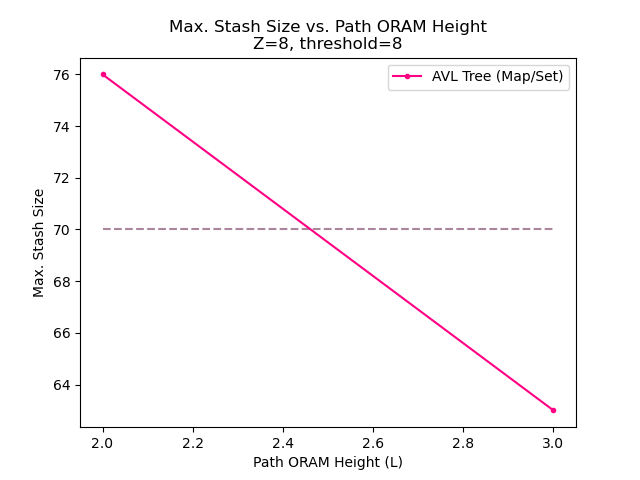
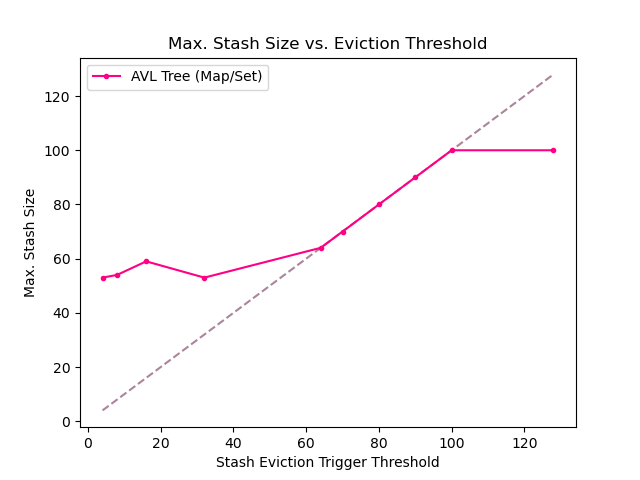
cooking up data

diff --git a/oram/benchmarks.cpp b/oram/benchmarks.cpp
@@ -1,102 +1,112 @@
 
 #include <set>
 
-#include "benchmarks.h"
-
 #include "stack.h"
 #include "queue.h"
 #include "set.h"
 #include "map.h"
 
-void stack_benchmark() {
+#define N 100
+
+void stack_benchmark(unsigned int levels, unsigned int bucket_size, unsigned int threshold) {
+  std::cout << "Testing L = " << levels << ", Z = " << bucket_size << ", THRES = " << threshold << "\n";
+  int max_stash_size = 0;
   char data[BLOCK_SIZE];
   memset(data, 0, BLOCK_SIZE);
 
-  StackClient client = StackClient("127.0.0.1", 8080);
+  StackClient client = StackClient("127.0.0.1", 8080, levels, bucket_size, threshold);
 
   for(int i = 1; i <= N; ++i) {
     memcpy(data, (char*)&i, sizeof(int));
     client.push(data);
+    max_stash_size = std::max(max_stash_size, client.stash_size());
   }
 
   for(int i = 1; i <= N; ++i) {
     client.pop(data);
+    max_stash_size = std::max(max_stash_size, client.stash_size());
   }
+
+  std::cout << "max_stash_size = " << max_stash_size << "\n";
+  std::cout << "bw_usage = " << client.get_bw_usage() << "\n";
 
   client.exit();
 }
 
-void queue_benchmark() {
+void queue_benchmark(unsigned int levels, unsigned int bucket_size, unsigned int threshold) {
+  std::cout << "Testing L = " << levels << ", Z = " << bucket_size << ", THRES = " << threshold << "\n";
+  int max_stash_size = 0;
   char data[BLOCK_SIZE];
   memset(data, 0, BLOCK_SIZE);
 
-  QueueClient client = QueueClient("127.0.0.1", 8080);
+  QueueClient client = QueueClient("127.0.0.1", 8080, levels, bucket_size, threshold);
 
   for(int i = 1; i <= N; ++i) {
     memcpy(data, (char*)&i, sizeof(int));
     client.push(data);
+    max_stash_size = std::max(max_stash_size, client.stash_size());
   }
   std::cout << "\n\n";
 
   for(int i = 1; i <= N; ++i) {
     client.pop(data);
+    max_stash_size = std::max(max_stash_size, client.stash_size());
   }
+
+  std::cout << "max_stash_size = " << max_stash_size << "\n";
+  std::cout << "bw_usage = " << client.get_bw_usage() << "\n";
 
   client.exit();
 }
 
-void avl_benchmark() {
-  for(auto level_it = levels.begin(); level_it != levels.end(); ++level_it) {
-    for(auto bucket_size_it = bucket_sizes.begin(); bucket_size_it != bucket_sizes.end(); ++bucket_size_it) {
-      for(auto thresh_it = stash_thresholds.begin(); thresh_it != stash_thresholds.end(); ++thresh_it) {
-	std::cout << "Testing L = " << *level_it << ", Z = " << *bucket_size_it << ", THRES = " << *thresh_it
-	<< " " << std::string(15, '-') << "\n";
-	int max_stash_size = 0;
-	MapClient<int, int> client = MapClient<int, int>("127.0.0.1", 8080,
-							 *level_it, *bucket_size_it, *thresh_it);
-
-	for(int i = 1; i <= N; ++i) {
-	  client.insert(i, 5*i);
-	  max_stash_size = std::max(max_stash_size, client.stash_size());
-	}
-
-	client.contains(2);
-	max_stash_size = std::max(max_stash_size, client.stash_size());
-	client.remove(2);
-	max_stash_size = std::max(max_stash_size, client.stash_size());
-	client.contains(2);
-	max_stash_size = std::max(max_stash_size, client.stash_size());
-	
-	for(int i = 1; i <= N; ++i) {
-	  if(i != 2) client.at(i);
-	  max_stash_size = std::max(max_stash_size, client.stash_size());
-	}
-
-	for(int i = 1; i <= N; ++i) {
-	  if(i != 2) client.remove(i);
-	  max_stash_size = std::max(max_stash_size, client.stash_size());
-	}
-	
-	std::cout << "max_stash_size = " << max_stash_size << "\n";
-	std::cout << "bw_usage = " << client.get_bw_usage() << "\n";
-	
-	client.exit();
-      }
-    }
+void avl_benchmark(unsigned int levels, unsigned int bucket_size, unsigned int threshold) {
+  std::cout << "Testing L = " << levels << ", Z = " << bucket_size << ", THRES = " << threshold << "\n";
+  int max_stash_size = 0;
+  MapClient<int, int> client = MapClient<int, int>("127.0.0.1", 8080, levels, bucket_size, threshold);
+  
+  for(int i = 1; i <= N; ++i) {
+    client.insert(i, 5*i);
+    max_stash_size = std::max(max_stash_size, client.stash_size());
   }
+  
+  client.contains(2);
+  max_stash_size = std::max(max_stash_size, client.stash_size());
+  client.remove(2);
+  max_stash_size = std::max(max_stash_size, client.stash_size());
+  client.contains(2);
+  max_stash_size = std::max(max_stash_size, client.stash_size());
+  
+  for(int i = 1; i <= N; ++i) {
+    if(i != 2) client.at(i);
+    max_stash_size = std::max(max_stash_size, client.stash_size());
+  }
+  
+  for(int i = 1; i <= N; ++i) {
+    if(i != 2) client.remove(i);
+    max_stash_size = std::max(max_stash_size, client.stash_size());
+  }
+  
+  std::cout << "max_stash_size = " << max_stash_size << "\n";
+  std::cout << "bw_usage = " << client.get_bw_usage() << "\n";
+
+  client.exit();
 }
 
 int main(int argc, char* argv[]) {
-  if(argc < 2) {
-    std::cout << "Usage: ./client [data structure (stack, queue, map, set)]\n";
+  if(argc < 5) {
+    std::cout << "Usage: ./client [data structure] [levels] [bucket_size] [threshold]\n";
     return -1;
   }
 
   char* ds = argv[1];
 
-  if(strcmp(ds, "stack") == 0) stack_benchmark();
-  else if(strcmp(ds, "queue") == 0) queue_benchmark();
-  else if(strcmp(ds, "avl") == 0) avl_benchmark();
+  unsigned int levels = std::stoi(argv[2]);
+  unsigned int bucket_size = std::stoi(argv[3]);
+  unsigned int threshold = std::stoi(argv[4]);
+
+  if(strcmp(ds, "stack") == 0) stack_benchmark(levels, bucket_size, threshold);
+  else if(strcmp(ds, "queue") == 0) queue_benchmark(levels, bucket_size, threshold);
+  else if(strcmp(ds, "avl") == 0) avl_benchmark(levels, bucket_size, threshold);
   else {
     std::cout << "Bad data structure. Choose one of: stack, queue, map, set.\n";
     return -1;

diff --git a/eval/run_benchmarks.py b/eval/run_benchmarks.py
@@ -1,0 +1,39 @@
+
+import os
+import subprocess
+import time
+
+from fig_common import *
+
+RUN_ALL=False
+
+if __name__=="__main__":
+
+    for label in labels.keys(): 
+        output_file = f"./data/{label}.log"
+        if RUN_ALL and os.path.exists(output_file):
+            os.remove(output_file)
+
+        for level in levels:
+            for bucket_size in bucket_sizes:
+                for threshold in thresholds:
+                    client_cmd = ["../oram/benchmarks",
+                                  str(label), str(level), str(bucket_size), str(threshold)]
+                    server_cmd = ["../oram/server", str(level), str(bucket_size)]
+
+                    if os.path.exists(output_file):
+                        with open(output_file, 'r') as logfile:
+                            contents = logfile.readlines()
+
+                            if f"Testing L = {level}, Z = {bucket_size}, THRES = {threshold}\n" in contents:
+                                continue
+
+                    with open(output_file, 'a') as logfile:
+                        client = subprocess.Popen(client_cmd, stdout=logfile)
+                        time.sleep(1)
+                        server = subprocess.Popen(server_cmd, stdout=subprocess.PIPE)
+
+                        for line in server.stdout:
+                            print(line)
+                        
+                    client.wait()

diff --git a/eval/stash_size.py b/eval/stash_size.py
@@ -8,21 +8,22 @@ def avg_stash_size():
 def max_stash_size(data): # maybe max stash size vs. threshold? 
     fig, ax = plt.subplots()
 
-    threshold = 8
-    Z = 8
+    # threshold = 32
+    Z = 8 
+    L = 4
 
-    x_var = data[0].keys()
+    x_var = data[0][L][Z].keys()
 
     # threshold value
-    ax.plot([min(x_var), max(x_var)], [70, 70], '--', color=ref_line_color)
+    ax.plot([min(x_var), max(x_var)], [min(x_var), max(x_var)], '--', color=ref_line_color)
 
     for i, d in enumerate(data):
-        y_var = [d[x][Z][threshold].max_stash_size for x in x_var]    
+        y_var = [d[L][Z][x].max_stash_size for x in x_var]    
         ax.plot(x_var, y_var, '.-', color=colors[i], label=list(labels.values())[i])
 
-    ax.set_xlabel("Path ORAM Height (L)")
+    ax.set_xlabel("Stash Eviction Trigger Threshold")
     ax.set_ylabel("Max. Stash Size")
-    ax.set_title(f"Max. Stash Size vs. Path ORAM Height\nZ={Z}, threshold={threshold}")
+    ax.set_title(f"Max. Stash Size vs. Eviction Threshold") # \nZ={Z}, threshold={threshold}")
     ax.legend()
 
     fig.savefig("max_stash_size.png")

diff --git a/oram/server.cpp b/oram/server.cpp
@@ -3,19 +3,20 @@
 #include <chrono>
 #include <thread>
 
-#include "benchmarks.h"
 #include "new_oram.h"
 
-int main() {
-  for(auto level_it = levels.begin(); level_it != levels.end(); ++level_it) {
-    for(auto bucket_size_it = bucket_sizes.begin(); bucket_size_it != bucket_sizes.end(); ++bucket_size_it) {
-      for(auto thresh_it = stash_thresholds.begin(); thresh_it != stash_thresholds.end(); ++thresh_it) {
-	// stash_threshold doesn't matter to server, it's just a repetition
-	ORAMServer server = ORAMServer(8080, *level_it, *bucket_size_it); 
-	server.run();
-	std::this_thread::sleep_for(std::chrono::seconds(1)); // client likes to connect first idk why
-      }
-    }
+int main(int argc, char* argv[]) {
+  if(argc < 3) {
+    std::cout << "Usage: ./server [levels] [bucket_size]\n";
+    return -1;
   }
+
+  unsigned int levels = std::stoi(argv[1]);
+  unsigned int bucket_size = std::stoi(argv[2]);
+
+  // stash_threshold doesn't matter to server, it's just a repetition
+  ORAMServer server = ORAMServer(8080, levels, bucket_size); 
+  server.run();
+
   return 0;
 }

diff --git a/eval/fig_common.py b/eval/fig_common.py
@@ -33,6 +33,12 @@ def parse_logfile(filename: str) -> dict[dict[dict[DataPoint]]]:
 
             init_dict_idx(config['L'], config['Z'], config['thresh'])
             data[config['L']][config['Z']][config['thresh']] = DataPoint(max_stash_size, 0, bw_usage)
+
+        data = dict(sorted(data.items()))
+        for L in data:
+            data[L] = dict(sorted(data[L].items()))
+            for Z in data:
+                data[L][Z] = dict(sorted(data[L][Z].items()))
     return data
 
 colors = [
@@ -45,7 +51,14 @@ colors = [
 ref_line_color = '#ab859b'
 
 labels = {
+    "stack": "Stack",
+    "queue": "Queue",
     "avl": "AVL Tree (Map/Set)",
 }
+
+levels = [4]
+# bucket_sizes = [2, 4, 8]
+bucket_sizes = [8]
+thresholds = [4, 8, 16, 32, 64, 70, 80, 90, 100, 128]
 
 linestyles = ['.-', '.--', '.-.', '.:']

diff --git a/oram/dep/queue.cpp b/oram/dep/queue.cpp
@@ -3,7 +3,9 @@
 
 #include "queue.h"
 
-QueueClient::QueueClient(std::string server_addr, int port) : ORAMClient(server_addr, port) {
+QueueClient::QueueClient(std::string server_addr, int port,
+			 unsigned int levels, unsigned int bucket_size, unsigned int threshold) :
+			   ORAMClient(server_addr, port, levels, bucket_size, threshold) {
   head = tail = 1; // head = next to pop, tail = next to add -> 0 addr is reserved
   front_leaf = next_leaf = 0;
 }

diff --git a/oram/dep/stack.h b/oram/dep/stack.h
@@ -5,7 +5,10 @@
 
 class StackClient : public ORAMClient {
 public:
-  StackClient(std::string server_ip, int port);
+  StackClient(std::string server_ip, int port,
+	      unsigned int levels, unsigned int bucket_size, unsigned int threshold);
+  StackClient(std::string server_ip, int port) : StackClient(server_ip, port,
+							     L, BUCKET_SIZE, STASH_THRESHOLD) {};
   void push(char data[BLOCK_SIZE]);
   int pop(char *buf);
   bool empty();

diff --git a/oram/dep/queue.h b/oram/dep/queue.h
@@ -5,7 +5,10 @@
 
 class QueueClient : public ORAMClient {
 public:
-  QueueClient(std::string server_addr, int port);
+  QueueClient(std::string server_addr, int port,
+	      unsigned int levels, unsigned int bucket_size, unsigned int threshold);
+  QueueClient(std::string server_addr, int port) : QueueClient(server_addr, port,
+							       L, BUCKET_SIZE, STASH_THRESHOLD) {};
   void push(char data[BLOCK_SIZE]);
   int pop(char *buf);
 

diff --git a/oram/dep/stack.cpp b/oram/dep/stack.cpp
@@ -1,6 +1,8 @@
 #include "stack.h"
 
-StackClient::StackClient(std::string server_ip, int port) : ORAMClient(server_ip, port) {
+StackClient::StackClient(std::string server_ip, int port,
+			 unsigned int levels, unsigned int bucket_size, unsigned int threshold) :
+			   ORAMClient(server_ip, port, levels, bucket_size, threshold) {
   ctr = 0;
   last_leaf = 0;
 }
